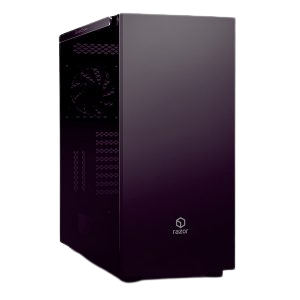
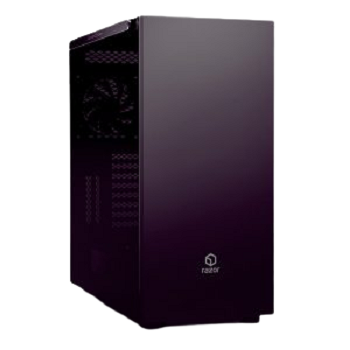
image transition
feita a transição de imagens

diff --git a/src/components/SectionWorkstation/index.jsx b/src/components/SectionWorkstation/index.jsx
@@ -6,21 +6,24 @@ import { useEffect } from "react";
 
 const workstationArray = [
   {
-    image: "../../../public/images/nvidia.png",
+    image1: "../../../public/images/nvidia.png",
+    image2: "../../../public/images/radeon.png",
     text: "Seu tempo e dinheiro, a Worstation Pro é o melhor investimento que você pode fazer. Alcence a máxima velocidade e o extremo desempenho com as linhas Nvidia RTX Quadro.",
     title: "Chip Gráfico que não arrega",
     highlightTitle: "Chip Gráfico",
     alt: "placa de video",
   },
   {
-    image: "../../../public/images/intel-xeon.png",
+    image1: "../../../public/images/intel-i9.png",
+    image2: "../../../public/images/ryzen.png",
     text: "Máquinas com processadores de última geração Intel ou AMD e até 64 núcleos. Customize com multiprocessamento de até 2 CPUs por PC e a linha Intel XEON e AMD Threadripper ou AMD Epyc.",
     title: "Processador Workaholic",
     highlightTitle: "Processador",
     alt: "processador",
   },
   {
-    image: "../../../public/images/prodigy.png",
+    image1: "../../../public/images/prodigy.png",
+    image2: "../../../public/images/virtuos.png",
     text: "Menos RGB, mais performance. As nossas máquinas não lembram um pisca-pisca de Natal ou raladores de cozinha. A Workstation Pro é lindo como todo computador tem que ser, discreto, com um design industrial e preparado para trabalhar.",
     title: "Design sem frescura",
     highlightTitle: "Design",
@@ -48,7 +51,8 @@ export const SectionWorkstation = () => {
             data-aos={index % 2 ? "fade-left" : "fade-right"}
           >
             <CardWorkstation
-              image={workstation.image}
+              image1={workstation.image1}
+              image2={workstation.image2}
               text={workstation.text}
               title={workstation.title}
               highlightTitle={workstation.highlightTitle}

diff --git a/src/components/SectionWorkstation/styles.css b/src/components/SectionWorkstation/styles.css
@@ -1,0 +1,48 @@
+#cf {
+    position:relative;
+    margin:0 auto;
+    border-radius:15px;
+    background:black;
+    min-width:250px, 350px;
+    max-width:350px;
+    line-height:350px;
+    box-shadow:0px 0px 20px rgb(255, 255, 255, 0.5);
+  }
+  
+  #cf img {
+    background-color: black;
+    position:absolute;
+    left:0;
+    -webkit-transition: opacity 1s ease-in-out;
+    -moz-transition: opacity 1s ease-in-out;
+    -o-transition: opacity 1s ease-in-out;
+    transition: opacity 1s ease-in-out;
+    min-width:250px, 350px;
+    max-width:350px;
+    align-content: center;
+    border-radius:15px;
+  }
+  
+  @keyframes cf3FadeInOut {
+    0% {
+    opacity:1;
+  }
+  45% {
+  opacity:1;
+  }
+  55% {
+  opacity:0;
+  }
+  100% {
+  opacity:0;
+  }
+  }
+  
+  #cf img.top {
+  animation-name: cf3FadeInOut;
+  animation-timing-function: ease-in-out;
+  animation-iteration-count: infinite;
+  animation-duration: 5s;
+  animation-direction: alternate;
+  border-radius:15px;
+  }

diff --git a/src/components/SectionWorkstation/CardWorkstation.jsx b/src/components/SectionWorkstation/CardWorkstation.jsx
@@ -1,15 +1,16 @@
 import {
   Flex,
   Text,
-  Image,
   Highlight,
   Heading,
   Box,
   useMediaQuery,
 } from "@chakra-ui/react";
+import "./styles.css";
 
 export const CardWorkstation = ({
-  image,
+  image1, 
+  image2,
   title,
   highlightTitle,
   text,
@@ -77,14 +78,18 @@ export const CardWorkstation = ({
         h="350px"
         boxShadow="0px 0px 20px rgb(255, 255, 255, 0.5)"
       >
-        <Image
+      <div id="cf" className="shadow">
+        <img alt="image1" className="bottom" src={image1} />
+        <img alt="image2" className="top" src={image2} />
+      </div>
+        {/* <Image
           height="100%"
           width="100%"
           objectFit="cover"
           borderRadius="12px"
           src={image}
           alt={alt}
-        />
+        /> */}
       </Box>
     </Flex>
   );
